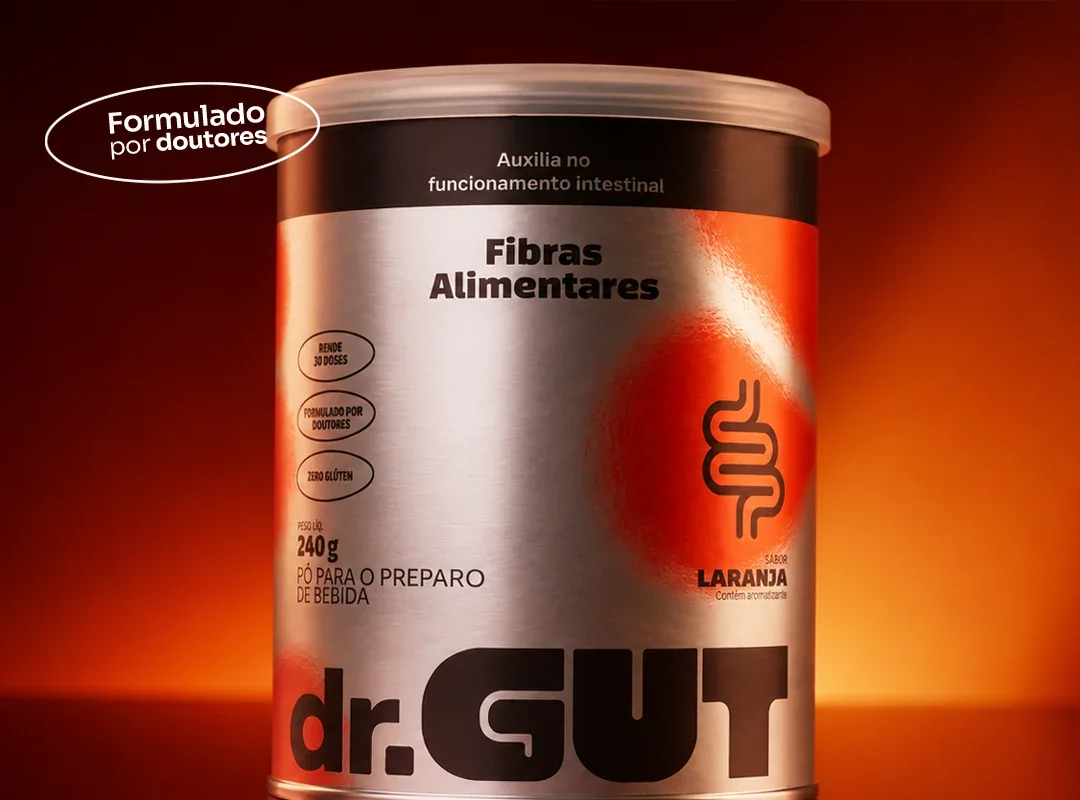
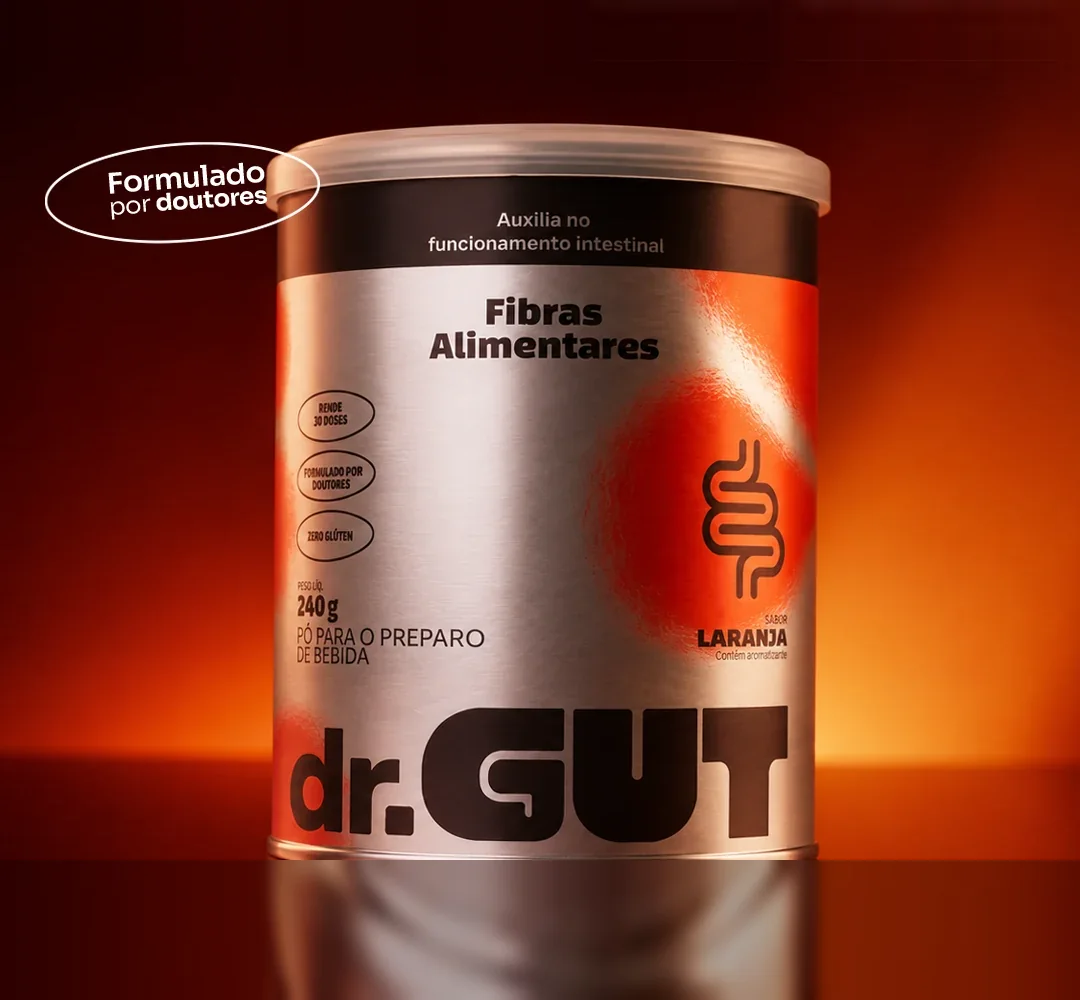
canetinha-v1: lata com respiro no hero e ícones de ingredientes em emoji
Claude-Session: https://claude.ai/code/session_01Mpa2vXNGtZrbHsqa2A34SJ

diff --git a/canetinha-v1.html b/canetinha-v1.html
@@ -12,8 +12,8 @@
 <link rel="preload" as="style" href="https://fonts.googleapis.com/css2?family=Poppins:wght@400;500;600&family=Sora:wght@500;600;700&display=swap" onload="this.onload=null;this.rel='stylesheet'">
 <noscript><link rel="stylesheet" href="https://fonts.googleapis.com/css2?family=Poppins:wght@400;500;600&family=Sora:wght@500;600;700&display=swap"></noscript>
 <link rel="stylesheet" href="assets/styles.css?v=20261027b">
-<link rel="stylesheet" href="assets/canetinha.css?v=20261027b">
-<link rel="preload" as="image" href="assets/img/hero-can-red.webp" imagesrcset="assets/img/hero-can-red-640.webp 640w, assets/img/hero-can-red.webp 1080w" imagesizes="(min-width: 900px) 520px, 100vw" fetchpriority="high">
+<link rel="stylesheet" href="assets/canetinha.css?v=20261027c">
+<link rel="preload" as="image" href="assets/img/hero-can-red.webp?v=2" imagesrcset="assets/img/hero-can-red-640.webp 640w, assets/img/hero-can-red.webp 1080w" imagesizes="(min-width: 900px) 520px, 100vw" fetchpriority="high">
 </head>
 <body class="cv">
 
@@ -45,7 +45,7 @@
       <p class="cv-hero__trust">Formulado por doutores · 5,8 g de fibra por dose · Garantia de 30 dias</p>
     </div>
     <figure class="cv-hero__fig">
-      <img src="assets/img/hero-can-red.webp" srcset="assets/img/hero-can-red-640.webp 640w, assets/img/hero-can-red.webp 1080w" sizes="(min-width: 900px) 520px, 100vw" alt="Lata de dr.GUT Fibras Alimentares, sabor laranja, formulado por doutores" width="1080" height="800" fetchpriority="high" decoding="async">
+      <img src="assets/img/hero-can-red.webp" srcset="assets/img/hero-can-red-640.webp 640w, assets/img/hero-can-red.webp 1080w" sizes="(min-width: 900px) 520px, 100vw" alt="Lata de dr.GUT Fibras Alimentares, sabor laranja, formulado por doutores" width="1080" height="1000" fetchpriority="high" decoding="async">
     </figure>
   </div>
 </section>
@@ -159,14 +159,14 @@
     <h2><em>Dose cheia.</em><br>Cada ingrediente com uma função.</h2>
     <p class="sub">Sem estimulante. Sem laxante. Sem cafeína. O que você vê na tabela é o que age no seu corpo.</p>
     <ul class="ingr">
-      <li><span class="ingr__ico"><svg class="ic" aria-hidden="true" viewBox="0 0 24 24"><path d="M12 3c3.5 2.5 5.5 5.5 5.5 9A5.5 5.5 0 0 1 12 17.5 5.5 5.5 0 0 1 6.5 12c0-3.5 2-6.5 5.5-9z"/></svg></span><div><b>Polidextrose</b><span>Volume e maciez</span></div></li>
-      <li><span class="ingr__ico"><svg class="ic" aria-hidden="true" viewBox="0 0 24 24"><circle cx="7" cy="8" r="3"/><circle cx="17" cy="8" r="3"/><circle cx="12" cy="16" r="3"/></svg></span><div><b>Inulina de chicória</b><span>Prebiótico</span></div></li>
-      <li><span class="ingr__ico"><svg class="ic" aria-hidden="true" viewBox="0 0 24 24"><path d="M4 18c4-9 12-9 16 0"/><path d="M12 4v5"/></svg></span><div><b>Goma guar (PHGG)</b><span>Suave, sem gel</span></div></li>
-      <li><span class="ingr__ico"><svg class="ic" aria-hidden="true" viewBox="0 0 24 24"><circle cx="12" cy="12" r="8.5"/><path d="M12 7v10"/><path d="M7 12h10"/></svg></span><div><b>Vitamina C</b><span>100% VD · imunidade</span></div></li>
-      <li><span class="ingr__ico"><svg class="ic" aria-hidden="true" viewBox="0 0 24 24"><path d="M12 3l7 3v6c0 4-3 7.3-7 9-4-1.7-7-5-7-9V6z"/></svg></span><div><b>Zinco</b><span>100% VD · imunidade</span></div></li>
-      <li><span class="ingr__ico"><svg class="ic" aria-hidden="true" viewBox="0 0 24 24"><path d="M12 4c-3 4-5 6-5 9a5 5 0 0 0 10 0c0-3-2-5-5-9z"/></svg></span><div><b>Biotina</b><span>100% VD · pele e cabelo</span></div></li>
-      <li><span class="ingr__ico"><svg class="ic" aria-hidden="true" viewBox="0 0 24 24"><circle cx="12" cy="12" r="4"/><path d="M12 2v3"/><path d="M12 19v3"/><path d="M2 12h3"/><path d="M19 12h3"/></svg></span><div><b>Selênio</b><span>50% VD · proteção celular</span></div></li>
-      <li><span class="ingr__ico"><svg class="ic" aria-hidden="true" viewBox="0 0 24 24"><path d="M5 20c0-7 4-11 11-14-1 7-5 11-11 14z"/><path d="M5 20c3-3 6-5 9-9"/></svg></span><div><b>Estévia</b><span>Adoçante natural</span></div></li>
+      <li><span class="ingr__ico" aria-hidden="true">🌾</span><div><b>Polidextrose</b><span>Volume e maciez</span></div></li>
+      <li><span class="ingr__ico" aria-hidden="true">🌱</span><div><b>Inulina de chicória</b><span>Prebiótico</span></div></li>
+      <li><span class="ingr__ico" aria-hidden="true">🫘</span><div><b>Goma guar (PHGG)</b><span>Suave, sem gel</span></div></li>
+      <li><span class="ingr__ico" aria-hidden="true">🍊</span><div><b>Vitamina C</b><span>100% VD · imunidade</span></div></li>
+      <li><span class="ingr__ico" aria-hidden="true">🛡</span><div><b>Zinco</b><span>100% VD · imunidade</span></div></li>
+      <li><span class="ingr__ico" aria-hidden="true">✨</span><div><b>Biotina</b><span>100% VD · pele e cabelo</span></div></li>
+      <li><span class="ingr__ico" aria-hidden="true">🧬</span><div><b>Selênio</b><span>50% VD · proteção celular</span></div></li>
+      <li><span class="ingr__ico" aria-hidden="true">🍃</span><div><b>Estévia</b><span>Adoçante natural</span></div></li>
     </ul>
     <div class="badges">
       <span>🌾 Sem glúten</span><span class="alt">✓ Zero açúcar adicionado</span><span>☕ Sem cafeína</span><span class="alt">👩⚕ Formulado por doutores</span>

diff --git a/assets/canetinha.css b/assets/canetinha.css
@@ -108,8 +108,7 @@
 .ingr{display:grid;grid-template-columns:repeat(2,1fr);gap:1.2rem;max-width:760px;margin:0 auto 2rem}
 @media(min-width:900px){.ingr{grid-template-columns:repeat(4,1fr);max-width:1100px}}
 .ingr li{background:#fff;border-radius:16px;padding:1.6rem;display:flex;gap:1.2rem;align-items:center;border:1px solid var(--border)}
-.ingr__ico{flex:none;width:40px;height:40px;border-radius:50%;background:#fff0f1;color:var(--primary);display:grid;place-items:center}
-.ingr__ico .ic{width:20px;height:20px}
+.ingr__ico{flex:none;width:44px;height:44px;border-radius:12px;background:#fff0f1;display:grid;place-items:center;font-size:2.2rem;line-height:1}
 .ingr li b{display:block;font-family:var(--heading-font);font-size:1.3rem;color:var(--heading);line-height:1.25}
 .ingr li span{font-size:1.1rem;color:#6b6b6b;line-height:1.3;display:block;margin-top:.2rem}
 @media(min-width:900px){.ingr li b{font-size:1.4rem}.ingr li span{font-size:1.2rem}}
